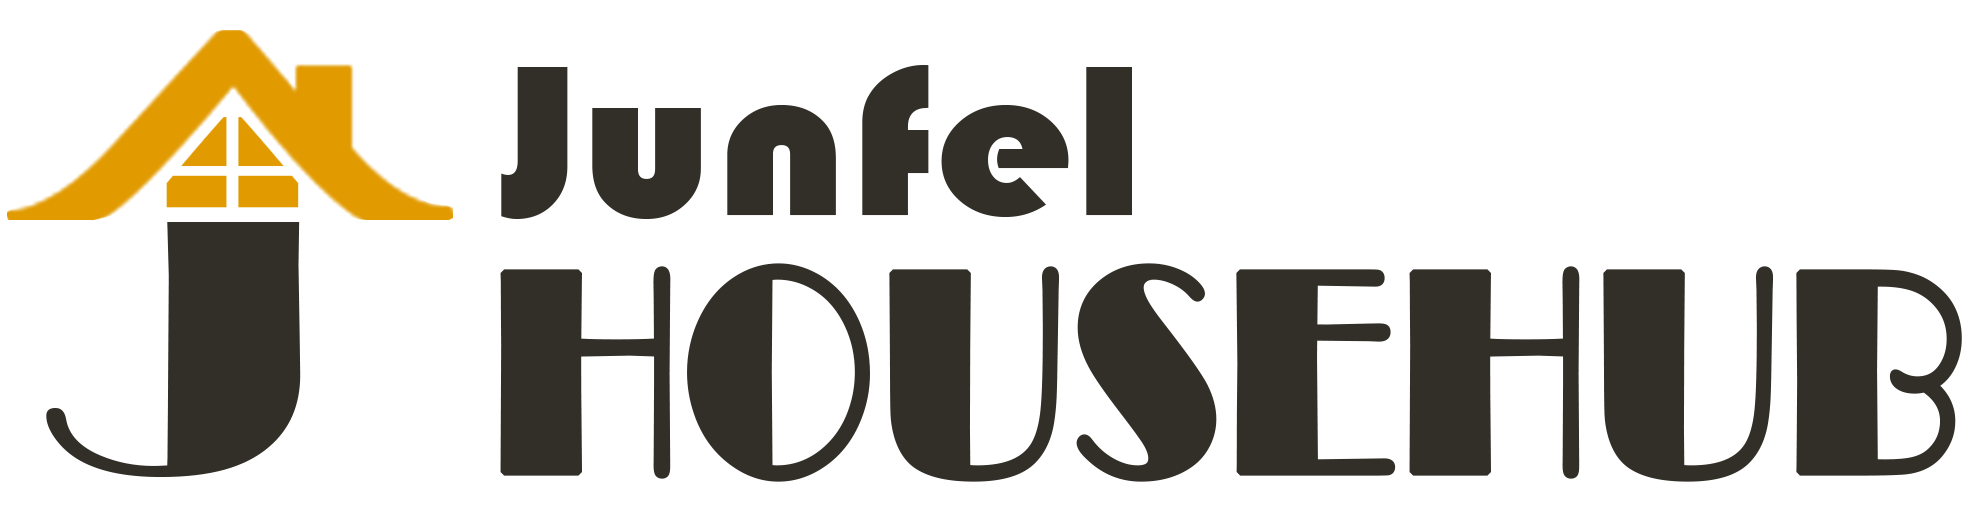
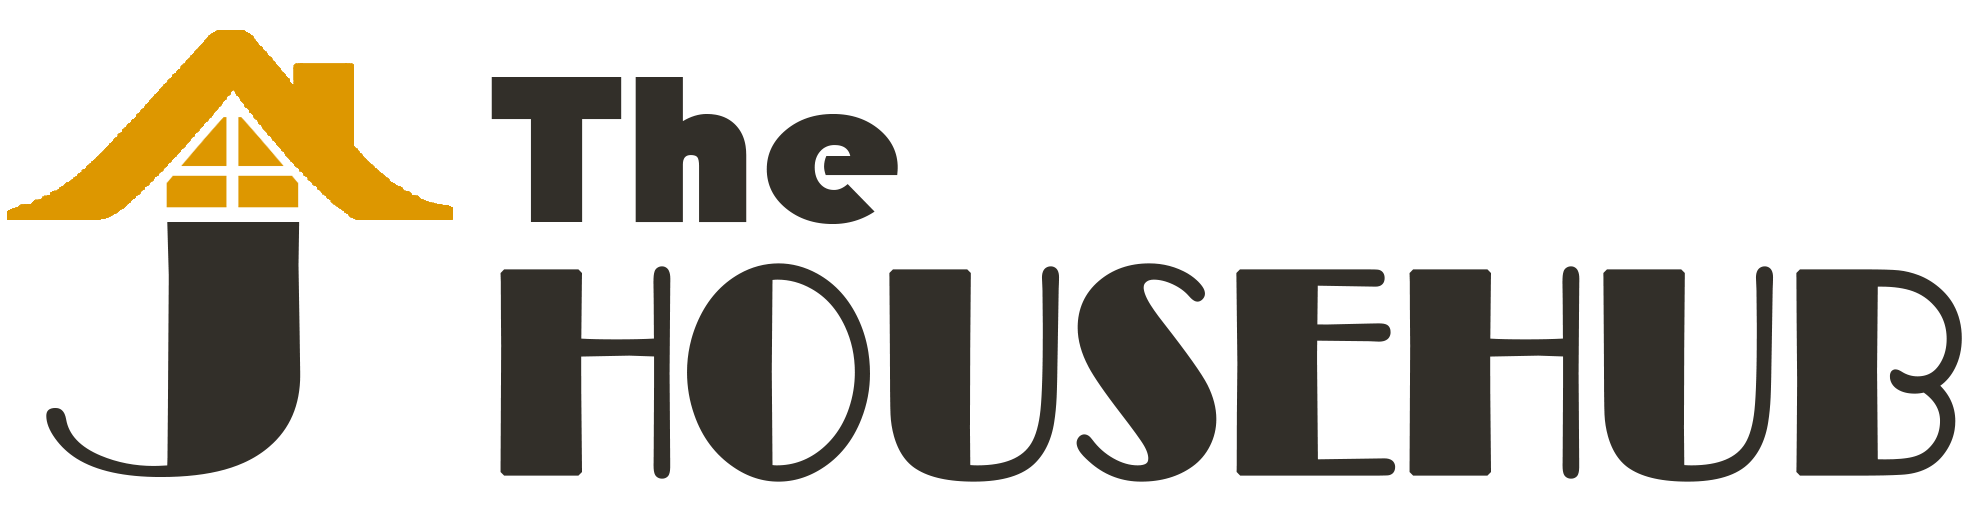
Add contact button on listing page, add footer

diff --git a/src/pages/Listing.jsx b/src/pages/Listing.jsx
@@ -5,6 +5,7 @@ import { useParams } from "react-router-dom";
 import Spinner from "../components/Spinner";
 import { db } from "../firebase";
 import { Swiper, SwiperSlide } from "swiper/react";
+import { getAuth } from "firebase/auth";
 import SwiperCore, {
   EffectFade,
   Autoplay,
@@ -22,10 +23,12 @@ import {
 } from "react-icons/fa";
 
 export default function Listing() {
+  const auth = getAuth();
   const params = useParams();
   const [listing, setListing] = useState(null);
   const [loading, setLoading] = useState(true);
   const [shareLinkCopied, setShareLinkCopied] = useState(false);
+  const [contactOwner, setContactOwner] = useState(false);
   SwiperCore.use([Autoplay, Navigation, Pagination]);
   useEffect(() => {
     async function fetchListing() {
@@ -42,7 +45,7 @@ export default function Listing() {
     return <Spinner />;
   }
   return (
-    <main>
+    <main className="mb-24">
       <Swiper
         slidesPerView={1}
         navigation
@@ -81,68 +84,86 @@ export default function Listing() {
         </p>
       )}
 
-      <div className="m-4 flex item-center justify-center  flex-col md:flex-row max-w-6xl lg:mx-auto gap-4 rounded-lg p-4 shadow-lg bg-white">
-        <div className="text-gray-700 w-full  md-[200px]">
-          <p className="text-2xl font-bold mb-3 text-blue-900 ">
-            {listing.name}
-            <p className=" my-3">
-              &#8369;&nbsp;
-              {listing.offer
-                ? listing.discountedPrice
-                    .toString()
-                    .replace(/\B(?=(\d{3})+(?!\d))/g, ",")
-                : listing.regularPrice
-                    .toString()
-                    .replace(/\B(?=(\d{3})+(?!\d))/g, ",")}
-              {listing.type === "rent" ? " / month " : ""}
+      <div className="m-4 flex item-center justify-center  flex-col md:flex-row max-w-7xl lg:mx-auto gap-6 rounded-lg p-4 shadow-lg bg-white">
+        <div className="text-gray-700 w-full  md-[200px] ">
+          <div>
+            <p className="flex justify-center items-start font-semibold mb-3 ">
+              <FaMapMarkerAlt className="text-red-700 mt-1 mr-1 text-lg" />
+              {listing.address}
             </p>
-          </p>
-          <p className="flex items-center font-semibold mt-3 ">
-            <FaMapMarkerAlt className="text-red-700 mr-1" />
-            {listing.address}
-          </p>
+            <p className=" mb-3 ">
+              <span className="flex font-bold text-2xl  text-blue-900 justify-center">
+                {listing.name}
+              </span>
 
-          <div className="flex  text-white font-semibold mt-3 gap-3 w-[75%] ">
-            <p className="w-full  bg-red-800 p-3 rounded-md  text-center shadow-md">
-              {listing.type === "rent" ? "For Rent" : "Sale"}
-            </p>
-
-            <p className="w-full bg-green-800 p-3 rounded-md text-center shadow-md">
-              {listing.offer && (
-                <p>
-                  &#8369;
-                  {+listing.regularPrice - +listing.discountedPrice} Discount
+              <div className="flex justify-evenly items-center text-white font-semibold my-3 gap-3">
+                <p className=" my-3 text-red-700 font-semibold text-4xl">
+                  &#8369;&nbsp;
+                  {listing.offer
+                    ? listing.discountedPrice
+                        .toString()
+                        .replace(/\B(?=(\d{3})+(?!\d))/g, ",")
+                    : listing.regularPrice
+                        .toString()
+                        .replace(/\B(?=(\d{3})+(?!\d))/g, ",")}
+                  {listing.type === "rent" ? " / month " : ""}
                 </p>
-              )}
+              </div>
+              <p className="w-full bg-green-800 p-2 rounded-md text-center text-white shadow-md ">
+                {listing.offer ? (
+                  <span>
+                    <p className="line-through">
+                      &#8369;
+                      {listing.regularPrice
+                        .toString()
+                        .replace(/\B(?=(\d{3})+(?!\d))/g, ",")}
+                    </p>
+                  </span>
+                ) : (
+                  <span className="line-through">No Promo</span>
+                )}
+              </p>
             </p>
           </div>
+
+          <p className=" mt-3 bg-red-800 p-2 px-6 rounded-md text-white font-semibold text-center shadow-md">
+            {listing.type === "rent" ? "For Rent" : "For Sale"}
+          </p>
 
           <p className="mt-6">
             <span className="font-semibold">Description -</span>
             <span> {listing.description} </span>
           </p>
-          <ul className=" flex mt-5 whitespace-nowrap">
-            <li className="flex items-center font-semibold text-sm mr-6">
+          <ul className=" flex mt-3 flex-col sm:flex-row">
+            <li className="flex items-center font-semibold text-sm mr-6 whitespace-nowrap">
               <FaBed className="mr-1 text-lg" />
               {+listing.bedrooms > 1 ? `${listing.bedrooms} Beds` : "1 Bed"}
             </li>
-            <li className="flex items-center font-semibold text-sm mr-6">
+            <li className="flex items-center font-semibold text-sm mr-6 whitespace-nowrap">
               <FaBath className="mr-1 text-lg" />
               {+listing.bathrooms > 1 ? `${listing.bathrooms} Baths` : "1 Bath"}
             </li>
-            <li className="flex items-center font-semibold text-sm mr-6">
+            <li className="flex items-center font-semibold text-sm mr-6 whitespace-nowrap">
               <FaParking className="mr-1 text-lg" />
-              {+listing.parking ? "Parking Spot" : "No Parking"}
+              {+listing.parking ? "Park Spot" : "No Parking"}
             </li>
-            <li className="flex items-center font-semibold text-sm ">
+            <li className="flex items-center font-semibold text-sm whitespace-nowrap">
               <FaChair className="mr-1 text-lg" />
               {listing.furnished ? "Furnished" : "Not Furnished"}
             </li>
           </ul>
+          {listing.userRef !== auth.currentUser?.uid && !contactOwner && (
+            <button
+              onClick={() => setContactOwner(true)}
+              className="w-full my-8 p-5 bg-blue-600 rounded text-white font-semibold uppercase shadow-lg hover:bg-blue-700 transition duration-150"
+            >
+              Contact The Owner / Representative
+            </button>
+          )}
         </div>
 
         <div className=" bg-gray-500 text-gray-700 w-full h-[300px] lg-[400px] overflow-hidden">
-          sdafsdf
+          Map Here
         </div>
       </div>
     </main>

diff --git a/src/pages/EditListing.jsx b/src/pages/EditListing.jsx
@@ -25,7 +25,6 @@ import { useEffect } from "react";
 export default function CreateListing() {
   const navigate = useNavigate();
   const auth = getAuth();
-  const [geolocationEnabled, setGeolocationEnabled] = useState(false);
   const [loading, setLoading] = useState(false);
   const [listing, setListing] = useState(null);
   const [formData, setFormData] = useState({
@@ -40,8 +39,6 @@ export default function CreateListing() {
     offer: true,
     regularPrice: 0,
     discountedPrice: 0,
-    latitude: 0,
-    longitude: 0,
     images: {},
   });
   const {
@@ -56,8 +53,6 @@ export default function CreateListing() {
     offer,
     regularPrice,
     discountedPrice,
-    latitude,
-    longitude,
     images,
   } = formData;
 
@@ -124,27 +119,6 @@ export default function CreateListing() {
       toast.error("maximum of 6 images are allowed");
       return;
     }
-    let geolocation = {};
-    let location = {};
-    if (geolocationEnabled) {
-      const response = await fetch(
-        `https://maps.googleapis.com/maps/api/geocode/json?address=${address}&key=${process.env.REACT_APP_GEOCODE_API_KEY}`
-      );
-      const data = await response.json();
-      geolocation.lat = data.result[0]?.geometry.location.lat ?? 0;
-      geolocation.lng = data.result[0]?.geometry.location.lng ?? 0;
-
-      location = data.status === "ZERO_RESULTS" && undefined;
-
-      if (location === undefined) {
-        setLoading(false);
-        toast.error("please enter a correct address");
-        return;
-      }
-    } else {
-      geolocation.lat = latitude;
-      geolocation.lng = longitude;
-    }
 
     async function storeImage(image) {
       return new Promise((resolve, reject) => {
@@ -196,7 +170,6 @@ export default function CreateListing() {
     const formDataCopy = {
       ...formData,
       imgUrls,
-      geolocation,
       timestamp: serverTimestamp(),
       userRef: auth.currentUser.uid,
     };
@@ -215,7 +188,7 @@ export default function CreateListing() {
     return <Spinner />;
   }
   return (
-    <main className="max-w-lg px-2 mx-auto container">
+    <main className="max-w-lg px-2 mx-auto container mb-24">
       <h1 className="text-3xl text-center mt-6 font-bold ">Edit Listing</h1>
       <form onSubmit={onSubmit}>
         <p className="text-lg mt-6 font-semibold">Sell / Rent</p>
@@ -352,36 +325,6 @@ export default function CreateListing() {
             required
             className="w-full rounded px-5 py-2 text-lg text-gray-700 bg-white border border-gray-300 transition duration-150 ease-in-out focus:text-gray-800 focus:bg-white mb-5"
           />
-          {!geolocationEnabled && (
-            <div className="w-full flex space-x-5 ">
-              <div className="">
-                <p className="text-lg font-semibold">Longitude</p>
-                <input
-                  type="number"
-                  id="longitude"
-                  value={longitude}
-                  onChange={onChange}
-                  required
-                  min="-90"
-                  max="90"
-                  className="w-full mb-5 px-5 py-2 text-xl text-gray-700 bg-white border border-gray-300 rounded transition duration-150 ease-in-out focus:bg-white focus:text-gray-700 text-center"
-                />
-              </div>
-              <div className="">
-                <p className="text-lg font-semibold">Latitude</p>
-                <input
-                  type="number"
-                  id="latitude"
-                  value={latitude}
-                  onChange={onChange}
-                  required
-                  min="-180"
-                  max="180"
-                  className="w-full mb-5 px-5 py-2 text-xl text-gray-700 bg-white border border-gray-300 rounded transition duration-150 ease-in-out focus:bg-white focus:text-gray-700 text-center"
-                />
-              </div>
-            </div>
-          )}
         </div>
         <div>
           <p className="text-lg font-semibold">Description</p>

diff --git a/src/pages/Profile.jsx b/src/pages/Profile.jsx
@@ -93,7 +93,7 @@ export default function Profile() {
   }
   return (
     <>
-      <section className="max-w-5xl mx-auto flex justify-center items-center flex-col">
+      <section className="max-w-5xl mx-auto flex justify-center items-center flex-col mb-6">
         <h1 className="text-3xl text-center my-6 font-bold text-white">
           My Profile
         </h1>
@@ -155,7 +155,7 @@ export default function Profile() {
           </button>
         </div>
       </section>
-      <div className="container mx-auto mt-6">
+      <div className="container mx-auto mt-6 mb-24">
         {!loading && listings.length > 0 && (
           <>
             <h2 className="text-2xl text-center font-semibold">My Listings</h2>

diff --git a/src/App.js b/src/App.js
@@ -12,6 +12,7 @@ import 'react-toastify/dist/ReactToastify.css';
 import CreateListing from "./pages/CreateListing";
 import EditListing from "./pages/EditListing";
 import Listing from "./pages/Listing";
+import Footer from "./components/Footer";
 
 function App() {
   return (
@@ -35,6 +36,7 @@ function App() {
           </Route>
           <Route path="/category/:categoryName/:listingId" element={<Listing/>} />
         </Routes>
+        <Footer/>
       </Router>
       <ToastContainer
         position="bottom-center"

diff --git a/src/components/Footer.jsx b/src/components/Footer.jsx
@@ -1,0 +1,14 @@
+import React from "react";
+
+export default function Footer() {
+  const currentYear = new Date();
+  console.log(currentYear.getFullYear());
+  return (
+    <div className="flex fixed w-full text-sm items-center justify-center bg-slate-900  py-6 bottom-0 right-0 left-0">
+      <p>
+        Copyright {`${currentYear.getFullYear()}`} | TheHouseHub - Design by:
+        Junfel
+      </p>
+    </div>
+  );
+}

diff --git a/src/pages/SignUp.jsx b/src/pages/SignUp.jsx
@@ -56,10 +56,9 @@ export default function SignUp() {
     }
   }
   return (
-    <section>
+    <section className="mb-24">
       <h1 className="text-white text-3xl text-center mt-6 font-bold">
-        {" "}
-        Sign Up{" "}
+        Sign Up
       </h1>
       <div className="flex justify-center flex-wrap items-center px-6 py-12 max-w-6xl mx-auto">
         <div className="md:w-[65%] lg:w-[50%] mb-12 md:mb-6">

diff --git a/src/pages/CreateListing.jsx b/src/pages/CreateListing.jsx
@@ -178,7 +178,7 @@ export default function CreateListing() {
     return <Spinner />;
   }
   return (
-    <main className="max-w-lg px-2 mx-auto container">
+    <main className="max-w-lg px-2 mx-auto container mb-24">
       <h1 className="text-3xl text-center mt-6 font-bold ">Create a Listing</h1>
       <form onSubmit={onSubmit}>
         <p className="text-lg mt-6 font-semibold">Sell / Rent</p>

diff --git a/public/index.html b/public/index.html
@@ -13,7 +13,7 @@
    
     <!-- <link rel="manifest" href="%PUBLIC_URL%/manifest.json" /> -->
     
-    <title>MyReact App | Junfel</title>
+    <title>TheHousehub | Junfel</title>
   </head>
   <body>
     <noscript>You need to enable JavaScript to run this app.</noscript>

diff --git a/src/pages/ForgotPassword.jsx b/src/pages/ForgotPassword.jsx
@@ -22,7 +22,7 @@ export default function ForgotPassword() {
     }
   }
   return (
-    <section>
+    <section className="mb-24">
       <h1 className="text-white text-3xl text-center mt-6 font-bold">
         {" "}
         Forgot Password{" "}

diff --git a/src/pages/SignIn.jsx b/src/pages/SignIn.jsx
@@ -37,7 +37,7 @@ export default function SignIn() {
     }
   }
   return (
-    <section>
+    <section className="mb-24">
       <h1 className="text-white text-3xl text-center mt-6 font-bold">
         {" "}
         Sign In{" "}

diff --git a/src/index.css b/src/index.css
@@ -5,6 +5,7 @@
 body{
     background-color: rgb(47, 47, 47);
     color: white;
+    /* position: relative; */
 }
 
 p{
